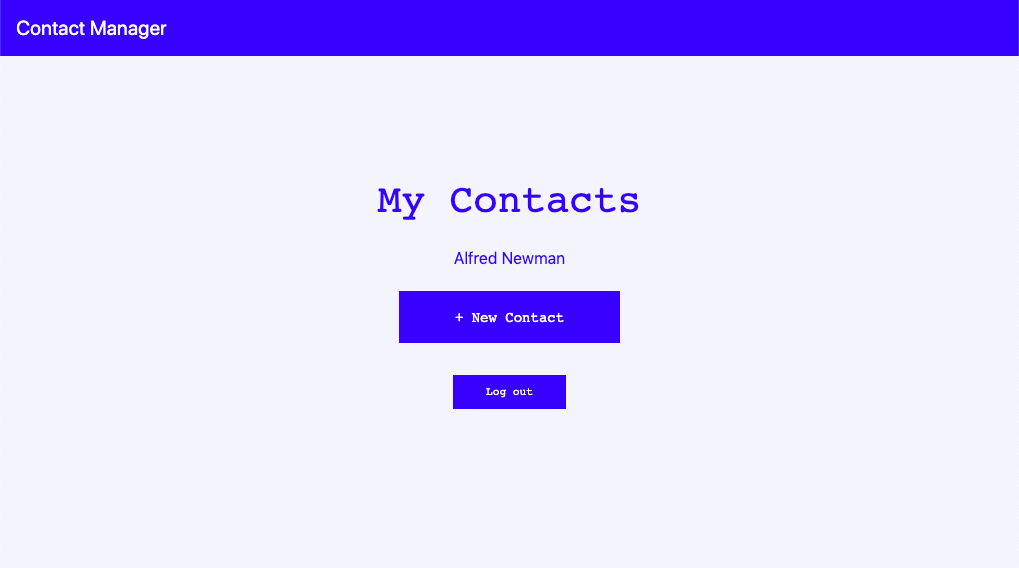
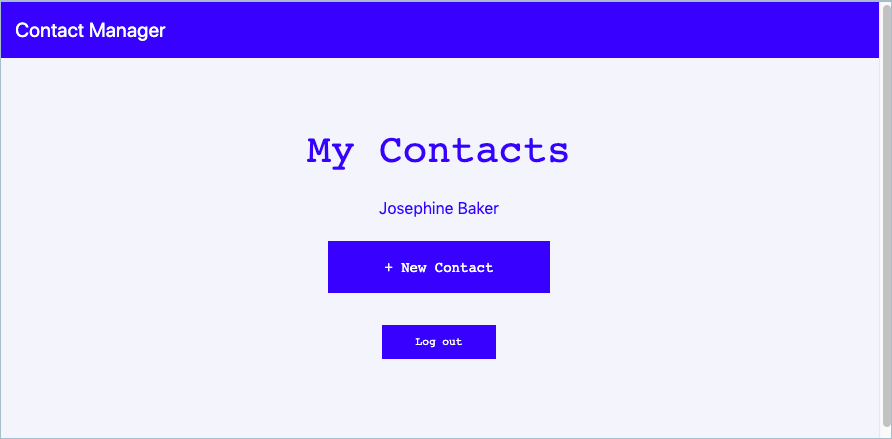
Closes #404 carried work with updates

diff --git a/_develop/collections.md b/_develop/collections.md
@@ -7,7 +7,7 @@ permalink: /:collection/:path.html
 
 Collections is the feature designed to make data portable among Blockstack applications. Sharing is accomplished by storing a user's data in a standardized format at a known, Gaia storage location. Collections associate user data with a user's decentralized ID. When users move among apps, the same data is available to each application the user authorizes. 
 
-On this page, you learn what collections are and how to use them. You'll learn about the `Contacts` collection in particular. The following topics are covered:
+On this page, you learn what collections are and how to use them. You'll learn about the `Contact` collection in particular. The following topics are covered:
 
 * TOC
 {:toc}
@@ -42,7 +42,7 @@ Because malicious apps or apps with poor security controls may damage user data,
 <p>For developers, collections can incentivize user adoption by reducing user friction.  Users can easily try new apps and move to them without the overhead or barrier of re-entering data. You are <a href="https://forum.blockstack.org/t/feedback-wanted-collections-design/7752" target="_blank">welcome to review and comment</a> on the current design document.</p>
 </div>
 
-## Try the Contact Manager demo app
+## Build a Contact Manager demo app
 
 Before adding collections to your DApp, you can try it for yourself using the Contact Manager demo application. Blockstack Contacts is a simple contacts manager that allows users to add and manage their contacts. The data stored by this app can be used in another app that receives the contacts collection permissions.
 
@@ -95,17 +95,24 @@ If you have `npm` installed, do the following to run the Contact Manager demo ap
 
     The system should return you to the Contact Manager demo application.
 
-Try adding a contact using the Contact Manager. When you have successfully created a contact, the Contact Manager displays that contact on the list. Here you can see that Alfred Newman was entered as a contact.
+### Test Contact data portability
 
-![](images/added-contact.png)
+1. Add a contact using your new Contact Manager application, the contact added here is `Josephine Baker`. 
+   
+   When you have successfully created a contact, the Contact Manager displays that contact on the list. Here you can see that Josephine Baker was entered as a contact.
 
-12. Once you've created a contact, you'll be able to view them in a different app.
+   ![](images/added-contact.png)
 
-Below is a separate test app that allows you to view the contacts data:
+2. Open the [collections page test](https://blockstack.github.io/blockstack-collections/page_test/) in your browser.
 
-https://blockstack.github.io/blockstack-collections/page_test/
+   The page test is an entirely different application that also makes use of the Contacts collection.
 
-Once you click Sign in, choose the same Blockstack ID you used in the Contacts Manager. You will now be able to see all contacts data that was written in the previous steps by the Contacts Manager app.
+3. Sign in using the same Blockstack ID you used to sign into the Contacts Manager.
+
+4. Choose **List contacts**.
+
+   ![](images/test-contact.png)
+
 
 ## How to add the Contact collections to your DApp
 
@@ -132,7 +139,7 @@ In this section, you learn how to add `Contact` collection functionality to an e
 
 5. Customize your sign in request to include the contacts collection scope `Contact.scope`. 
 
-    This scope grants your app permission to read and write to the user’s `Contacts` collection. 
+    This scope grants your app permission to read and write to the user’s `Contact` collection. 
 
     ```javascript
     import { UserSession, AppConfig, makeAuthRequest } from 'blockstack'
